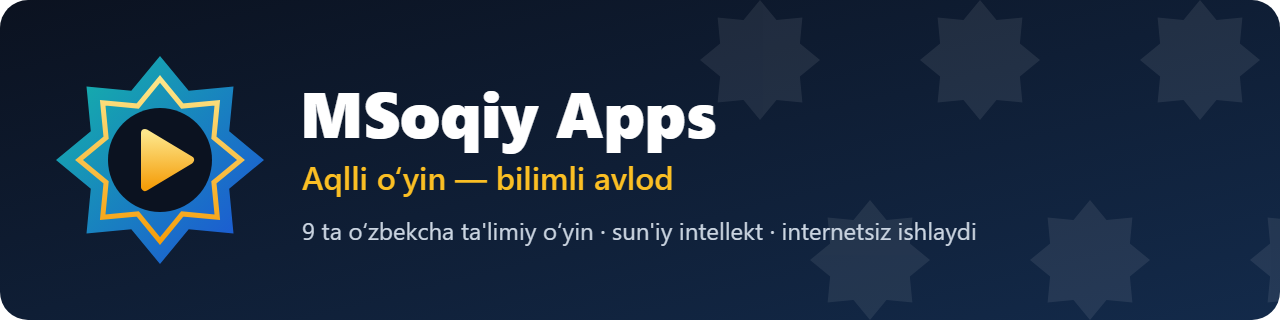
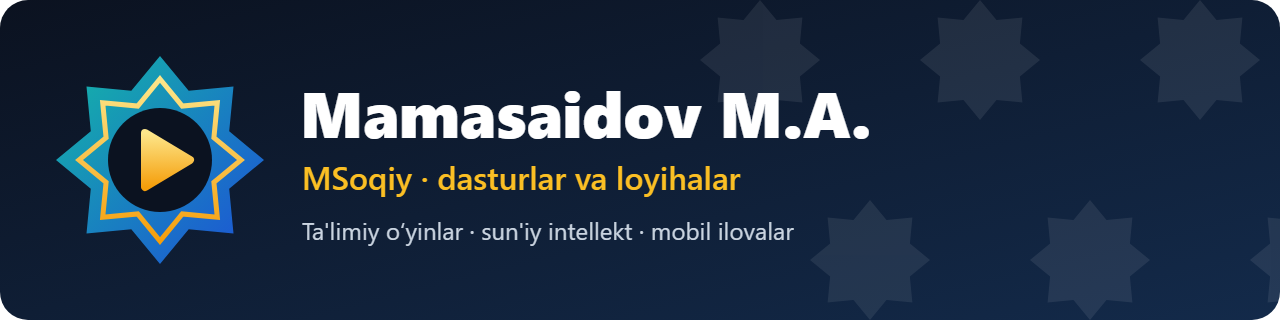
Remove "MSoqiy Apps" branding, use personal name

Changed region(s): [[0.2188, 0.2812, 0.6875, 0.625], [0.2188, 0.6875, 0.7812, 0.7812]]

diff --git a/index.html b/index.html
@@ -3,7 +3,7 @@
 <head>
 <meta charset="utf-8">
 <meta name="viewport" content="width=device-width, initial-scale=1">
-<title>MSoqiy Apps — Aqlli o‘yin — bilimli avlod | 9 ta o‘zbekcha ta'limiy o‘yin ilovasi</title>
+<title>Mamasaidov M.A. (MSoqiy) — Aqlli o‘yin — bilimli avlod | 9 ta o‘zbekcha ta'limiy o‘yin ilovasi</title>
 <meta name="description" content="Bolalar uchun bepul o‘zbekcha ta'limiy o‘yinlar: alifbo, o‘qish, matematika, algebra, geografiya, ingliz, fransuz, nemis va arab tillari. Sun'iy intellekt talaffuzni internetsiz baholaydi. APK yuklab oling.">
 <meta name="keywords" content="o‘zbekcha ta'limiy o‘yinlar, bolalar uchun ilovalar, ta'limiy ilovalar android, o‘zbek tilida sun'iy intellekt, uzbek educational games, alifbo o‘rganish, savod o‘rgatish ilovasi, matematika o‘yini, arifmetika bolalar uchun, o‘qish texnikasi, o‘qishni o‘rganish, ingliz tili bolalar uchun, ingliz tilini o‘rganish, fransuz tili bolalar uchun, fransuz tilini o‘rganish, nemis tili bolalar uchun, nemis tilini o‘rganish, arab tili bolalar uchun, arab tilini o‘rganish, tenglamalar yechish, algebra o‘yini, geografiya o‘yini, geografiya bolalar uchun">
 <meta name="author" content="Mamasaidov M.A.">
@@ -14,21 +14,21 @@
 <meta name="theme-color" content="#0b1220">
 <meta property="og:type" content="website">
 <meta property="og:locale" content="uz_UZ">
-<meta property="og:site_name" content="MSoqiy Apps — Aqlli o‘yin — bilimli avlod">
-<meta property="og:title" content="MSoqiy Apps — Aqlli o‘yin — bilimli avlod | 9 ta o‘zbekcha ta'limiy o‘yin ilovasi">
+<meta property="og:site_name" content="MSoqiy — Mamasaidov M.A.">
+<meta property="og:title" content="Mamasaidov M.A. (MSoqiy) — Aqlli o‘yin — bilimli avlod | 9 ta o‘zbekcha ta'limiy o‘yin ilovasi">
 <meta property="og:description" content="Bolalar uchun bepul o‘zbekcha ta'limiy o‘yinlar: alifbo, o‘qish, matematika, algebra, geografiya, ingliz, fransuz, nemis va arab tillari. Sun'iy intellekt talaffuzni internetsiz baholaydi. APK yuklab oling.">
 <meta property="og:url" content="https://msoqiy.github.io/">
 <meta property="og:image" content="https://msoqiy.github.io/assets/banner.png">
 <meta name="twitter:card" content="summary_large_image">
-<meta name="twitter:title" content="MSoqiy Apps — Aqlli o‘yin — bilimli avlod | 9 ta o‘zbekcha ta'limiy o‘yin ilovasi">
+<meta name="twitter:title" content="Mamasaidov M.A. (MSoqiy) — Aqlli o‘yin — bilimli avlod | 9 ta o‘zbekcha ta'limiy o‘yin ilovasi">
 <meta name="twitter:description" content="Bolalar uchun bepul o‘zbekcha ta'limiy o‘yinlar: alifbo, o‘qish, matematika, algebra, geografiya, ingliz, fransuz, nemis va arab tillari. Sun'iy intellekt talaffuzni internetsiz baholaydi. APK yuklab oling.">
 <meta name="twitter:image" content="https://msoqiy.github.io/assets/banner.png">
 <link rel="stylesheet" href="/assets/style.css">
-<script type="application/ld+json">{"@context":"https://schema.org","@graph":[{"@type":"WebSite","name":"MSoqiy Apps","url":"https://msoqiy.github.io/","inLanguage":"uz","author":{"@type":"Person","name":"Mamasaidov M.A.","email":"mailto:soqiy65@gmail.com","jobTitle":"Ta'limiy o‘yinlar va sun'iy intellekt ilovalari muallifi","worksFor":{"@type":"Organization","name":"Tetrasoft"},"address":{"@type":"PostalAddress","addressLocality":"Toshkent","addressCountry":"UZ"},"url":"https://msoqiy.github.io","sameAs":["https://github.com/MSoqiy"]}},{"@type":"ItemList","name":"O‘zbekcha ta'limiy o‘yin ilovalari","itemListElement":[{"@type":"ListItem","position":1,"url":"https://msoqiy.github.io/otin-buvi/","name":"Otin buvi"},{"@type":"ListItem","position":2,"url":"https://msoqiy.github.io/donish-bobo/","name":"Donish bobo"},{"@type":"ListItem","position":3,"url":"https://msoqiy.github.io/bayon-ai/","name":"Bayon AI"},{"@type":"ListItem","position":4,"url":"https://msoqiy.github.io/tilbilgich-en/","name":"Tilbilgich En AI"},{"@type":"ListItem","position":5,"url":"https://msoqiy.github.io/tilbilgich-fr/","name":"Tilbilgich Fr AI"},{"@type":"ListItem","position":6,"url":"https://msoqiy.github.io/tilbilgich-de/","name":"Tilbilgich De AI"},{"@type":"ListItem","position":7,"url":"https://msoqiy.github.io/tilbilgich-ar/","name":"Tilbilgich Ar AI"},{"@type":"ListItem","position":8,"url":"https://msoqiy.github.io/aljabr/","name":"Aljabr"},{"@type":"ListItem","position":9,"url":"https://msoqiy.github.io/geosayyoh/","name":"GeoSayyoh"}]},{"@type":"Person","name":"Mamasaidov M.A.","email":"mailto:soqiy65@gmail.com","jobTitle":"Ta'limiy o‘yinlar va sun'iy intellekt ilovalari muallifi","worksFor":{"@type":"Organization","name":"Tetrasoft"},"address":{"@type":"PostalAddress","addressLocality":"Toshkent","addressCountry":"UZ"},"url":"https://msoqiy.github.io","sameAs":["https://github.com/MSoqiy"]}]}</script>
+<script type="application/ld+json">{"@context":"https://schema.org","@graph":[{"@type":"WebSite","name":"MSoqiy — Mamasaidov M.A.","url":"https://msoqiy.github.io/","inLanguage":"uz","author":{"@type":"Person","name":"Mamasaidov M.A.","email":"mailto:soqiy65@gmail.com","jobTitle":"Ta'limiy o‘yinlar va sun'iy intellekt ilovalari muallifi","worksFor":{"@type":"Organization","name":"Tetrasoft"},"address":{"@type":"PostalAddress","addressLocality":"Toshkent","addressCountry":"UZ"},"url":"https://msoqiy.github.io","sameAs":["https://github.com/MSoqiy"]}},{"@type":"ItemList","name":"O‘zbekcha ta'limiy o‘yin ilovalari","itemListElement":[{"@type":"ListItem","position":1,"url":"https://msoqiy.github.io/otin-buvi/","name":"Otin buvi"},{"@type":"ListItem","position":2,"url":"https://msoqiy.github.io/donish-bobo/","name":"Donish bobo"},{"@type":"ListItem","position":3,"url":"https://msoqiy.github.io/bayon-ai/","name":"Bayon AI"},{"@type":"ListItem","position":4,"url":"https://msoqiy.github.io/tilbilgich-en/","name":"Tilbilgich En AI"},{"@type":"ListItem","position":5,"url":"https://msoqiy.github.io/tilbilgich-fr/","name":"Tilbilgich Fr AI"},{"@type":"ListItem","position":6,"url":"https://msoqiy.github.io/tilbilgich-de/","name":"Tilbilgich De AI"},{"@type":"ListItem","position":7,"url":"https://msoqiy.github.io/tilbilgich-ar/","name":"Tilbilgich Ar AI"},{"@type":"ListItem","position":8,"url":"https://msoqiy.github.io/aljabr/","name":"Aljabr"},{"@type":"ListItem","position":9,"url":"https://msoqiy.github.io/geosayyoh/","name":"GeoSayyoh"}]},{"@type":"Person","name":"Mamasaidov M.A.","email":"mailto:soqiy65@gmail.com","jobTitle":"Ta'limiy o‘yinlar va sun'iy intellekt ilovalari muallifi","worksFor":{"@type":"Organization","name":"Tetrasoft"},"address":{"@type":"PostalAddress","addressLocality":"Toshkent","addressCountry":"UZ"},"url":"https://msoqiy.github.io","sameAs":["https://github.com/MSoqiy"]}]}</script>
 </head>
 <body>
 <header class="top"><div class="wrap">
-  <a class="logo" href="/"><img src="/assets/logo.svg" alt="MSoqiy logo" width="36" height="36">MSoqiy Apps</a>
+  <a class="logo" href="/"><img src="/assets/logo.svg" alt="MSoqiy logo" width="36" height="36">MSoqiy</a>
   <nav><a href="/#ilovalar">Ilovalar</a><a href="/#nega">Nega biz</a><a href="/#muallif">Muallif</a><a href="https://github.com/MSoqiy">GitHub</a></nav>
 </div></header>
 <main>

diff --git a/404.html b/404.html
@@ -3,7 +3,7 @@
 <head>
 <meta charset="utf-8">
 <meta name="viewport" content="width=device-width, initial-scale=1">
-<title>Sahifa topilmadi — MSoqiy Apps</title>
+<title>Sahifa topilmadi — MSoqiy</title>
 <meta name="description" content="Sahifa topilmadi">
 <meta name="keywords" content="">
 <meta name="author" content="Mamasaidov M.A.">
@@ -14,13 +14,13 @@
 <meta name="theme-color" content="#0b1220">
 <meta property="og:type" content="website">
 <meta property="og:locale" content="uz_UZ">
-<meta property="og:site_name" content="MSoqiy Apps — Aqlli o‘yin — bilimli avlod">
-<meta property="og:title" content="Sahifa topilmadi — MSoqiy Apps">
+<meta property="og:site_name" content="MSoqiy — Mamasaidov M.A.">
+<meta property="og:title" content="Sahifa topilmadi — MSoqiy">
 <meta property="og:description" content="Sahifa topilmadi">
 <meta property="og:url" content="https://msoqiy.github.io/404.html">
 <meta property="og:image" content="https://msoqiy.github.io/assets/banner.png">
 <meta name="twitter:card" content="summary_large_image">
-<meta name="twitter:title" content="Sahifa topilmadi — MSoqiy Apps">
+<meta name="twitter:title" content="Sahifa topilmadi — MSoqiy">
 <meta name="twitter:description" content="Sahifa topilmadi">
 <meta name="twitter:image" content="https://msoqiy.github.io/assets/banner.png">
 <link rel="stylesheet" href="/assets/style.css">
@@ -28,7 +28,7 @@
 </head>
 <body>
 <header class="top"><div class="wrap">
-  <a class="logo" href="/"><img src="/assets/logo.svg" alt="MSoqiy logo" width="36" height="36">MSoqiy Apps</a>
+  <a class="logo" href="/"><img src="/assets/logo.svg" alt="MSoqiy logo" width="36" height="36">MSoqiy</a>
   <nav><a href="/#ilovalar">Ilovalar</a><a href="/#nega">Nega biz</a><a href="/#muallif">Muallif</a><a href="https://github.com/MSoqiy">GitHub</a></nav>
 </div></header>
 <main><section><div class="wrap"><h1>404 — sahifa topilmadi</h1><p><a class="btn" href="/">Bosh sahifaga qaytish</a></p></div></section></main><footer><div class="wrap">

diff --git a/tilbilgich-ar/index.html b/tilbilgich-ar/index.html
@@ -14,7 +14,7 @@
 <meta name="theme-color" content="#0b1220">
 <meta property="og:type" content="website">
 <meta property="og:locale" content="uz_UZ">
-<meta property="og:site_name" content="MSoqiy Apps — Aqlli o‘yin — bilimli avlod">
+<meta property="og:site_name" content="MSoqiy — Mamasaidov M.A.">
 <meta property="og:title" content="Tilbilgich Ar AI — Arab tili (fusho) | o‘zbekcha ta'limiy o‘yin, APK yuklab olish">
 <meta property="og:description" content="Tilbilgich Ar AI: Arab tilini Jamol tuyacha bilan o‘rganing: harakatlar, sehrli ildiz va o‘zbek tilida yo‘q tovushlarni o‘rgatuvchi sun'iy intellekt. Maktab o‘quvchilari. Bepul, reklamasiz, internetsiz. Android APK.">
 <meta property="og:url" content="https://msoqiy.github.io/tilbilgich-ar/">
@@ -28,7 +28,7 @@
 </head>
 <body>
 <header class="top"><div class="wrap">
-  <a class="logo" href="/"><img src="/assets/logo.svg" alt="MSoqiy logo" width="36" height="36">MSoqiy Apps</a>
+  <a class="logo" href="/"><img src="/assets/logo.svg" alt="MSoqiy logo" width="36" height="36">MSoqiy</a>
   <nav><a href="/#ilovalar">Ilovalar</a><a href="/#nega">Nega biz</a><a href="/#muallif">Muallif</a><a href="https://github.com/MSoqiy">GitHub</a></nav>
 </div></header>
 <main>

diff --git a/tilbilgich-fr/index.html b/tilbilgich-fr/index.html
@@ -14,7 +14,7 @@
 <meta name="theme-color" content="#0b1220">
 <meta property="og:type" content="website">
 <meta property="og:locale" content="uz_UZ">
-<meta property="og:site_name" content="MSoqiy Apps — Aqlli o‘yin — bilimli avlod">
+<meta property="og:site_name" content="MSoqiy — Mamasaidov M.A.">
 <meta property="og:title" content="Tilbilgich Fr AI — Fransuz tili | o‘zbekcha ta'limiy o‘yin, APK yuklab olish">
 <meta property="og:description" content="Tilbilgich Fr AI: Fransuz tilini Lili qaldirg‘och bilan o‘rganing — jim harflar, burun unlilari va eliziyani tushunadigan sun'iy intellekt. Boshlang‘ich sinflar. Bepul, reklamasiz, internetsiz. Android APK.">
 <meta property="og:url" content="https://msoqiy.github.io/tilbilgich-fr/">
@@ -28,7 +28,7 @@
 </head>
 <body>
 <header class="top"><div class="wrap">
-  <a class="logo" href="/"><img src="/assets/logo.svg" alt="MSoqiy logo" width="36" height="36">MSoqiy Apps</a>
+  <a class="logo" href="/"><img src="/assets/logo.svg" alt="MSoqiy logo" width="36" height="36">MSoqiy</a>
   <nav><a href="/#ilovalar">Ilovalar</a><a href="/#nega">Nega biz</a><a href="/#muallif">Muallif</a><a href="https://github.com/MSoqiy">GitHub</a></nav>
 </div></header>
 <main>

diff --git a/bayon-ai/index.html b/bayon-ai/index.html
@@ -14,7 +14,7 @@
 <meta name="theme-color" content="#0b1220">
 <meta property="og:type" content="website">
 <meta property="og:locale" content="uz_UZ">
-<meta property="og:site_name" content="MSoqiy Apps — Aqlli o‘yin — bilimli avlod">
+<meta property="og:site_name" content="MSoqiy — Mamasaidov M.A.">
 <meta property="og:title" content="Bayon AI — O‘qish texnikasi · Matnni tushunish | o‘zbekcha ta'limiy o‘yin, APK yuklab olish">
 <meta property="og:description" content="Bayon AI: Bola ertakni ovoz chiqarib o‘qiydi — sun'iy intellekt har bir so‘zni jonli baholaydi, xatolarni birga bo‘g‘inlab tuzatadi. 1–2-sinf. Bepul, reklamasiz, internetsiz. Android APK.">
 <meta property="og:url" content="https://msoqiy.github.io/bayon-ai/">
@@ -28,7 +28,7 @@
 </head>
 <body>
 <header class="top"><div class="wrap">
-  <a class="logo" href="/"><img src="/assets/logo.svg" alt="MSoqiy logo" width="36" height="36">MSoqiy Apps</a>
+  <a class="logo" href="/"><img src="/assets/logo.svg" alt="MSoqiy logo" width="36" height="36">MSoqiy</a>
   <nav><a href="/#ilovalar">Ilovalar</a><a href="/#nega">Nega biz</a><a href="/#muallif">Muallif</a><a href="https://github.com/MSoqiy">GitHub</a></nav>
 </div></header>
 <main>

diff --git a/tilbilgich-en/index.html b/tilbilgich-en/index.html
@@ -14,7 +14,7 @@
 <meta name="theme-color" content="#0b1220">
 <meta property="og:type" content="website">
 <meta property="og:locale" content="uz_UZ">
-<meta property="og:site_name" content="MSoqiy Apps — Aqlli o‘yin — bilimli avlod">
+<meta property="og:site_name" content="MSoqiy — Mamasaidov M.A.">
 <meta property="og:title" content="Tilbilgich En AI — Ingliz tili | o‘zbekcha ta'limiy o‘yin, APK yuklab olish">
 <meta property="og:description" content="Tilbilgich En AI: Ingliz tilini Tuti to‘tiqush bilan o‘rganing: alifbo, so‘zlar, o‘qish va gapirish — barcha ko‘rsatmalar o‘zbek tilida. 1–4-sinf. Bepul, reklamasiz, internetsiz. Android APK.">
 <meta property="og:url" content="https://msoqiy.github.io/tilbilgich-en/">
@@ -28,7 +28,7 @@
 </head>
 <body>
 <header class="top"><div class="wrap">
-  <a class="logo" href="/"><img src="/assets/logo.svg" alt="MSoqiy logo" width="36" height="36">MSoqiy Apps</a>
+  <a class="logo" href="/"><img src="/assets/logo.svg" alt="MSoqiy logo" width="36" height="36">MSoqiy</a>
   <nav><a href="/#ilovalar">Ilovalar</a><a href="/#nega">Nega biz</a><a href="/#muallif">Muallif</a><a href="https://github.com/MSoqiy">GitHub</a></nav>
 </div></header>
 <main>

diff --git a/otin-buvi/index.html b/otin-buvi/index.html
@@ -14,7 +14,7 @@
 <meta name="theme-color" content="#0b1220">
 <meta property="og:type" content="website">
 <meta property="og:locale" content="uz_UZ">
-<meta property="og:site_name" content="MSoqiy Apps — Aqlli o‘yin — bilimli avlod">
+<meta property="og:site_name" content="MSoqiy — Mamasaidov M.A.">
 <meta property="og:title" content="Otin buvi — Savod o‘rgatish · Alifbo | o‘zbekcha ta'limiy o‘yin, APK yuklab olish">
 <meta property="og:description" content="Otin buvi: Bolangiz alifboni o‘yin o‘ynab, ovoz chiqarib o‘rgansin — Otin buvi har bir harfni tinglab, baholab, maqtab boradi. 1-sinf (6–7 yosh). Bepul, reklamasiz, internetsiz. Android APK.">
 <meta property="og:url" content="https://msoqiy.github.io/otin-buvi/">
@@ -28,7 +28,7 @@
 </head>
 <body>
 <header class="top"><div class="wrap">
-  <a class="logo" href="/"><img src="/assets/logo.svg" alt="MSoqiy logo" width="36" height="36">MSoqiy Apps</a>
+  <a class="logo" href="/"><img src="/assets/logo.svg" alt="MSoqiy logo" width="36" height="36">MSoqiy</a>
   <nav><a href="/#ilovalar">Ilovalar</a><a href="/#nega">Nega biz</a><a href="/#muallif">Muallif</a><a href="https://github.com/MSoqiy">GitHub</a></nav>
 </div></header>
 <main>

diff --git a/tilbilgich-de/index.html b/tilbilgich-de/index.html
@@ -14,7 +14,7 @@
 <meta name="theme-color" content="#0b1220">
 <meta property="og:type" content="website">
 <meta property="og:locale" content="uz_UZ">
-<meta property="og:site_name" content="MSoqiy Apps — Aqlli o‘yin — bilimli avlod">
+<meta property="og:site_name" content="MSoqiy — Mamasaidov M.A.">
 <meta property="og:title" content="Tilbilgich De AI — Nemis tili | o‘zbekcha ta'limiy o‘yin, APK yuklab olish">
 <meta property="og:description" content="Tilbilgich De AI: Nemis tilini Felix ayiqcha bilan o‘rganing: rangli artikllar, kukuk soati va talaffuzni tinglaydigan sun'iy intellekt. 1–2-sinf. Bepul, reklamasiz, internetsiz. Android APK.">
 <meta property="og:url" content="https://msoqiy.github.io/tilbilgich-de/">
@@ -28,7 +28,7 @@
 </head>
 <body>
 <header class="top"><div class="wrap">
-  <a class="logo" href="/"><img src="/assets/logo.svg" alt="MSoqiy logo" width="36" height="36">MSoqiy Apps</a>
+  <a class="logo" href="/"><img src="/assets/logo.svg" alt="MSoqiy logo" width="36" height="36">MSoqiy</a>
   <nav><a href="/#ilovalar">Ilovalar</a><a href="/#nega">Nega biz</a><a href="/#muallif">Muallif</a><a href="https://github.com/MSoqiy">GitHub</a></nav>
 </div></header>
 <main>

diff --git a/donish-bobo/index.html b/donish-bobo/index.html
@@ -14,7 +14,7 @@
 <meta name="theme-color" content="#0b1220">
 <meta property="og:type" content="website">
 <meta property="og:locale" content="uz_UZ">
-<meta property="og:site_name" content="MSoqiy Apps — Aqlli o‘yin — bilimli avlod">
+<meta property="og:site_name" content="MSoqiy — Mamasaidov M.A.">
 <meta property="og:title" content="Donish bobo — Arifmetika · Matematika | o‘zbekcha ta'limiy o‘yin, APK yuklab olish">
 <meta property="og:description" content="Donish bobo: Qo‘shish, ayirish, ko‘paytirish va bo‘lish — sehrli baraban va dono Donish bobo bilan o‘yin kabi qiziqarli. 1–4-sinf. Bepul, reklamasiz, internetsiz. Android APK.">
 <meta property="og:url" content="https://msoqiy.github.io/donish-bobo/">
@@ -28,7 +28,7 @@
 </head>
 <body>
 <header class="top"><div class="wrap">
-  <a class="logo" href="/"><img src="/assets/logo.svg" alt="MSoqiy logo" width="36" height="36">MSoqiy Apps</a>
+  <a class="logo" href="/"><img src="/assets/logo.svg" alt="MSoqiy logo" width="36" height="36">MSoqiy</a>
   <nav><a href="/#ilovalar">Ilovalar</a><a href="/#nega">Nega biz</a><a href="/#muallif">Muallif</a><a href="https://github.com/MSoqiy">GitHub</a></nav>
 </div></header>
 <main>

diff --git a/aljabr/index.html b/aljabr/index.html
@@ -14,7 +14,7 @@
 <meta name="theme-color" content="#0b1220">
 <meta property="og:type" content="website">
 <meta property="og:locale" content="uz_UZ">
-<meta property="og:site_name" content="MSoqiy Apps — Aqlli o‘yin — bilimli avlod">
+<meta property="og:site_name" content="MSoqiy — Mamasaidov M.A.">
 <meta property="og:title" content="Aljabr — Algebra · Tenglamalar | o‘zbekcha ta'limiy o‘yin, APK yuklab olish">
 <meta property="og:description" content="Aljabr: Tenglamani tarozi, Al-Xorazmiy usullari va «bir son o‘yla» o‘yini orqali tushuning — chiziqlidan kvadrat tenglamagacha. 4–5-sinf. Bepul, reklamasiz, internetsiz. Android APK.">
 <meta property="og:url" content="https://msoqiy.github.io/aljabr/">
@@ -28,7 +28,7 @@
 </head>
 <body>
 <header class="top"><div class="wrap">
-  <a class="logo" href="/"><img src="/assets/logo.svg" alt="MSoqiy logo" width="36" height="36">MSoqiy Apps</a>
+  <a class="logo" href="/"><img src="/assets/logo.svg" alt="MSoqiy logo" width="36" height="36">MSoqiy</a>
   <nav><a href="/#ilovalar">Ilovalar</a><a href="/#nega">Nega biz</a><a href="/#muallif">Muallif</a><a href="https://github.com/MSoqiy">GitHub</a></nav>
 </div></header>
 <main>

diff --git a/geosayyoh/index.html b/geosayyoh/index.html
@@ -14,7 +14,7 @@
 <meta name="theme-color" content="#0b1220">
 <meta property="og:type" content="website">
 <meta property="og:locale" content="uz_UZ">
-<meta property="og:site_name" content="MSoqiy Apps — Aqlli o‘yin — bilimli avlod">
+<meta property="og:site_name" content="MSoqiy — Mamasaidov M.A.">
 <meta property="og:title" content="GeoSayyoh — Geografiya | o‘zbekcha ta'limiy o‘yin, APK yuklab olish">
 <meta property="og:description" content="GeoSayyoh: Kosmik kema Yerning tasodifiy nuqtasiga qo‘nadi va so‘raydi: «Bu yer qayer?» — javobni ovoz bilan ayting! 6–12 yosh. Bepul, reklamasiz, internetsiz. Android APK.">
 <meta property="og:url" content="https://msoqiy.github.io/geosayyoh/">
@@ -28,7 +28,7 @@
 </head>
 <body>
 <header class="top"><div class="wrap">
-  <a class="logo" href="/"><img src="/assets/logo.svg" alt="MSoqiy logo" width="36" height="36">MSoqiy Apps</a>
+  <a class="logo" href="/"><img src="/assets/logo.svg" alt="MSoqiy logo" width="36" height="36">MSoqiy</a>
   <nav><a href="/#ilovalar">Ilovalar</a><a href="/#nega">Nega biz</a><a href="/#muallif">Muallif</a><a href="https://github.com/MSoqiy">GitHub</a></nav>
 </div></header>
 <main>
